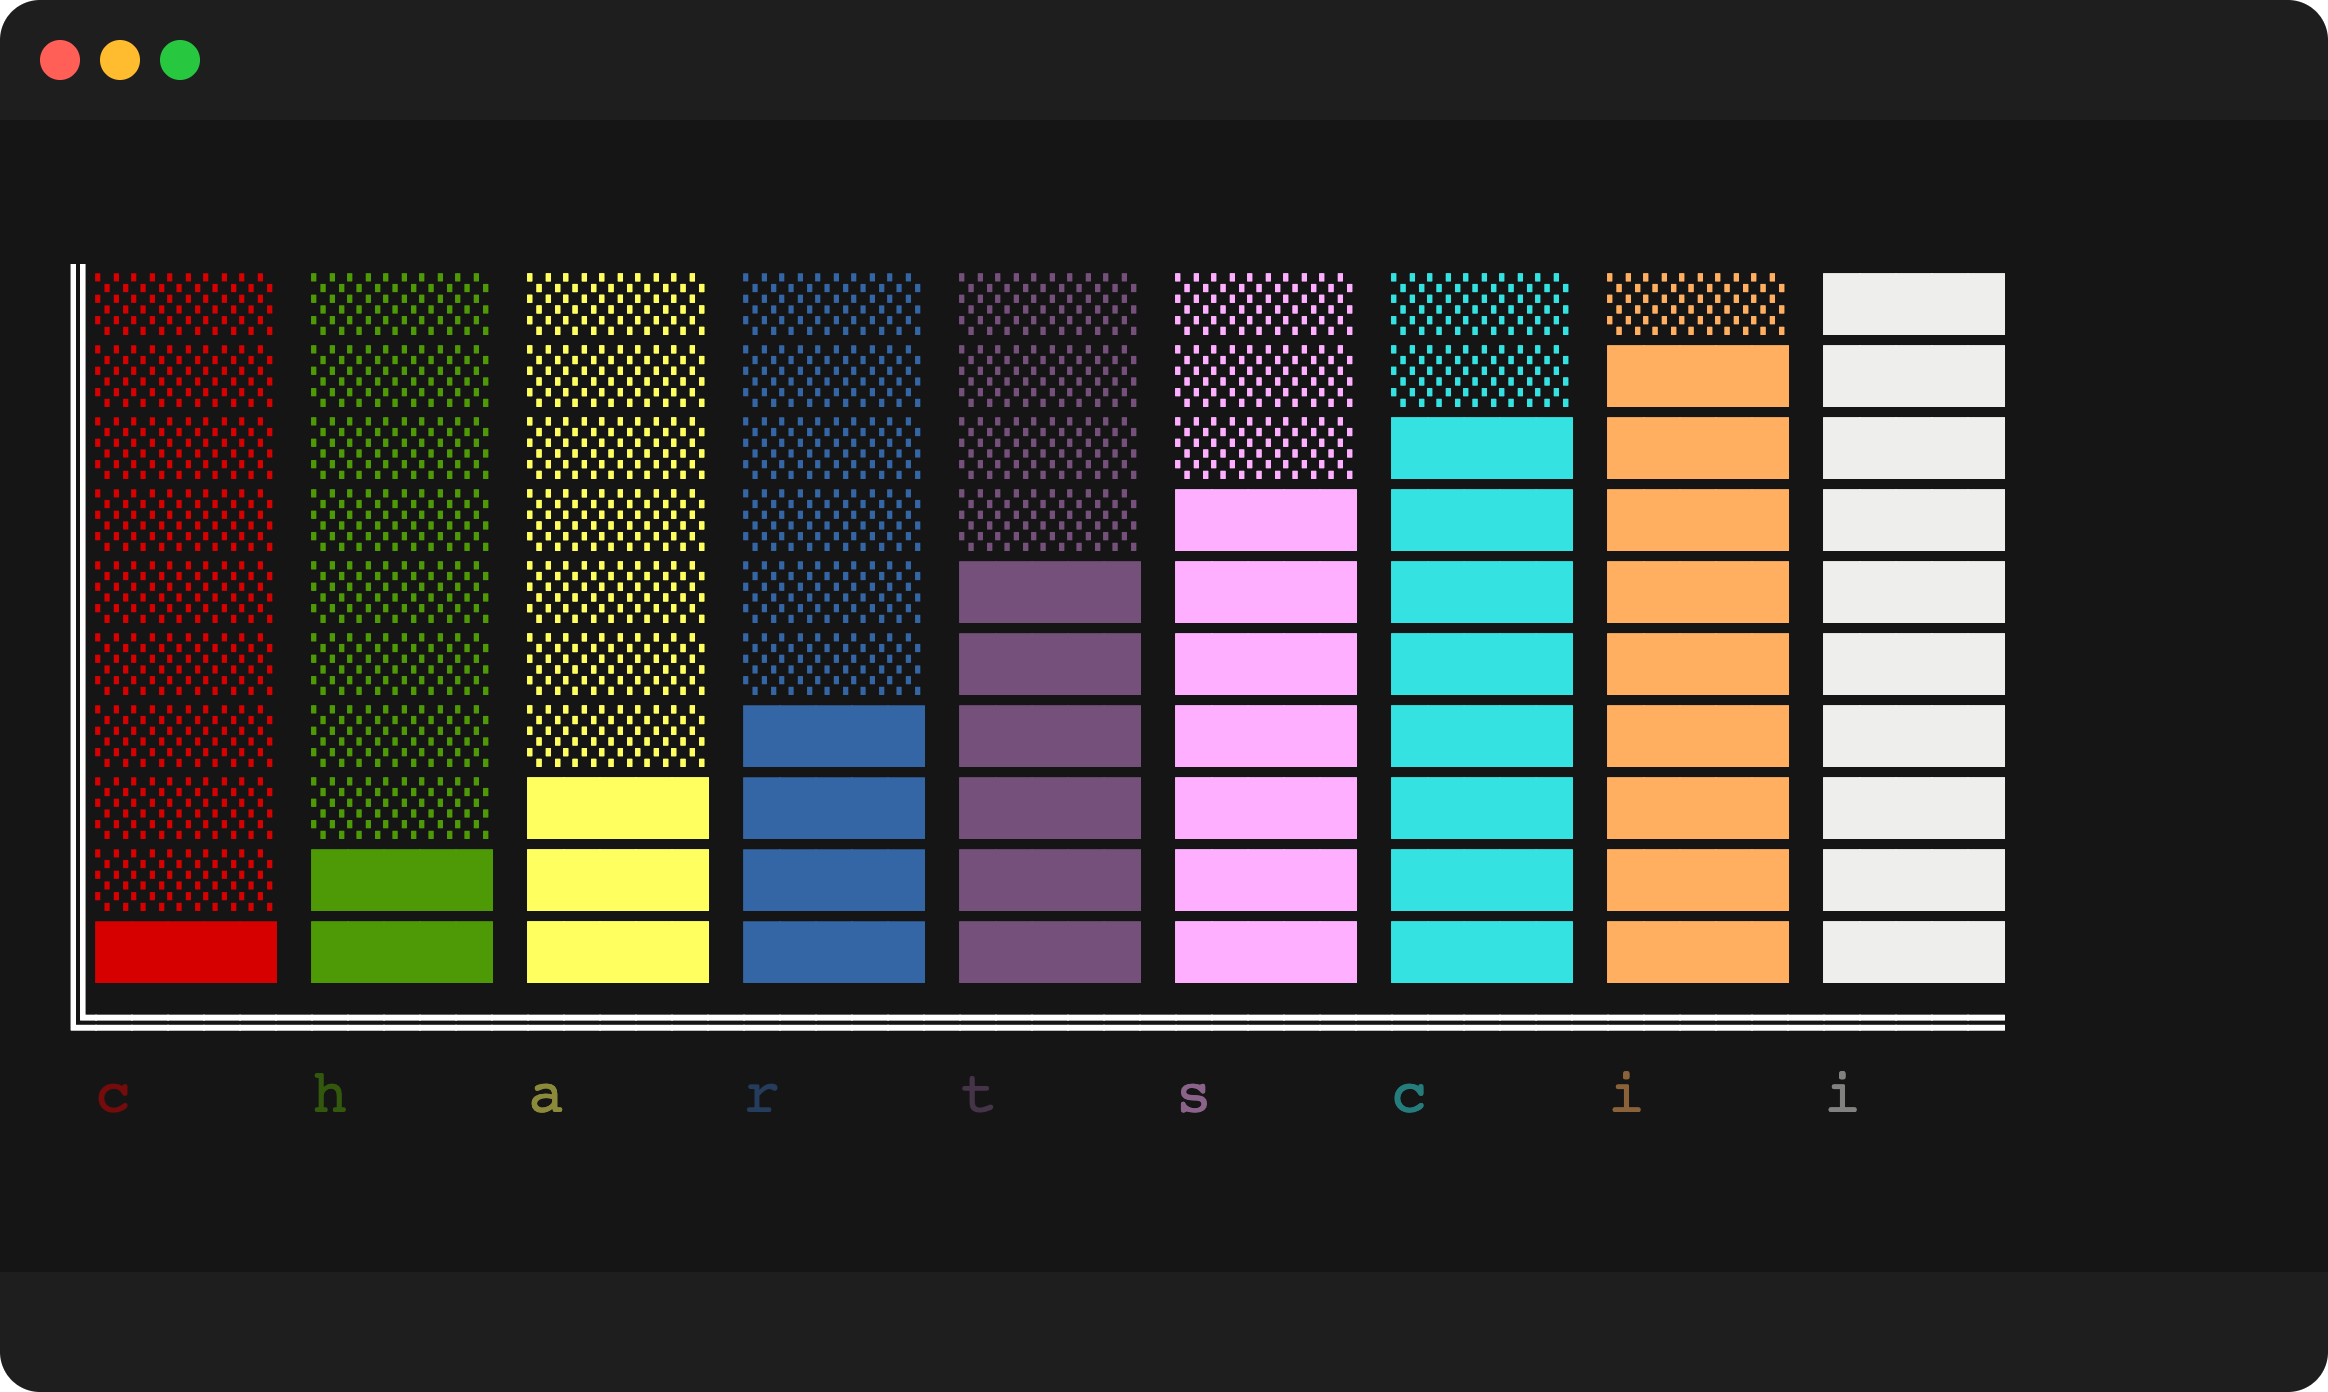
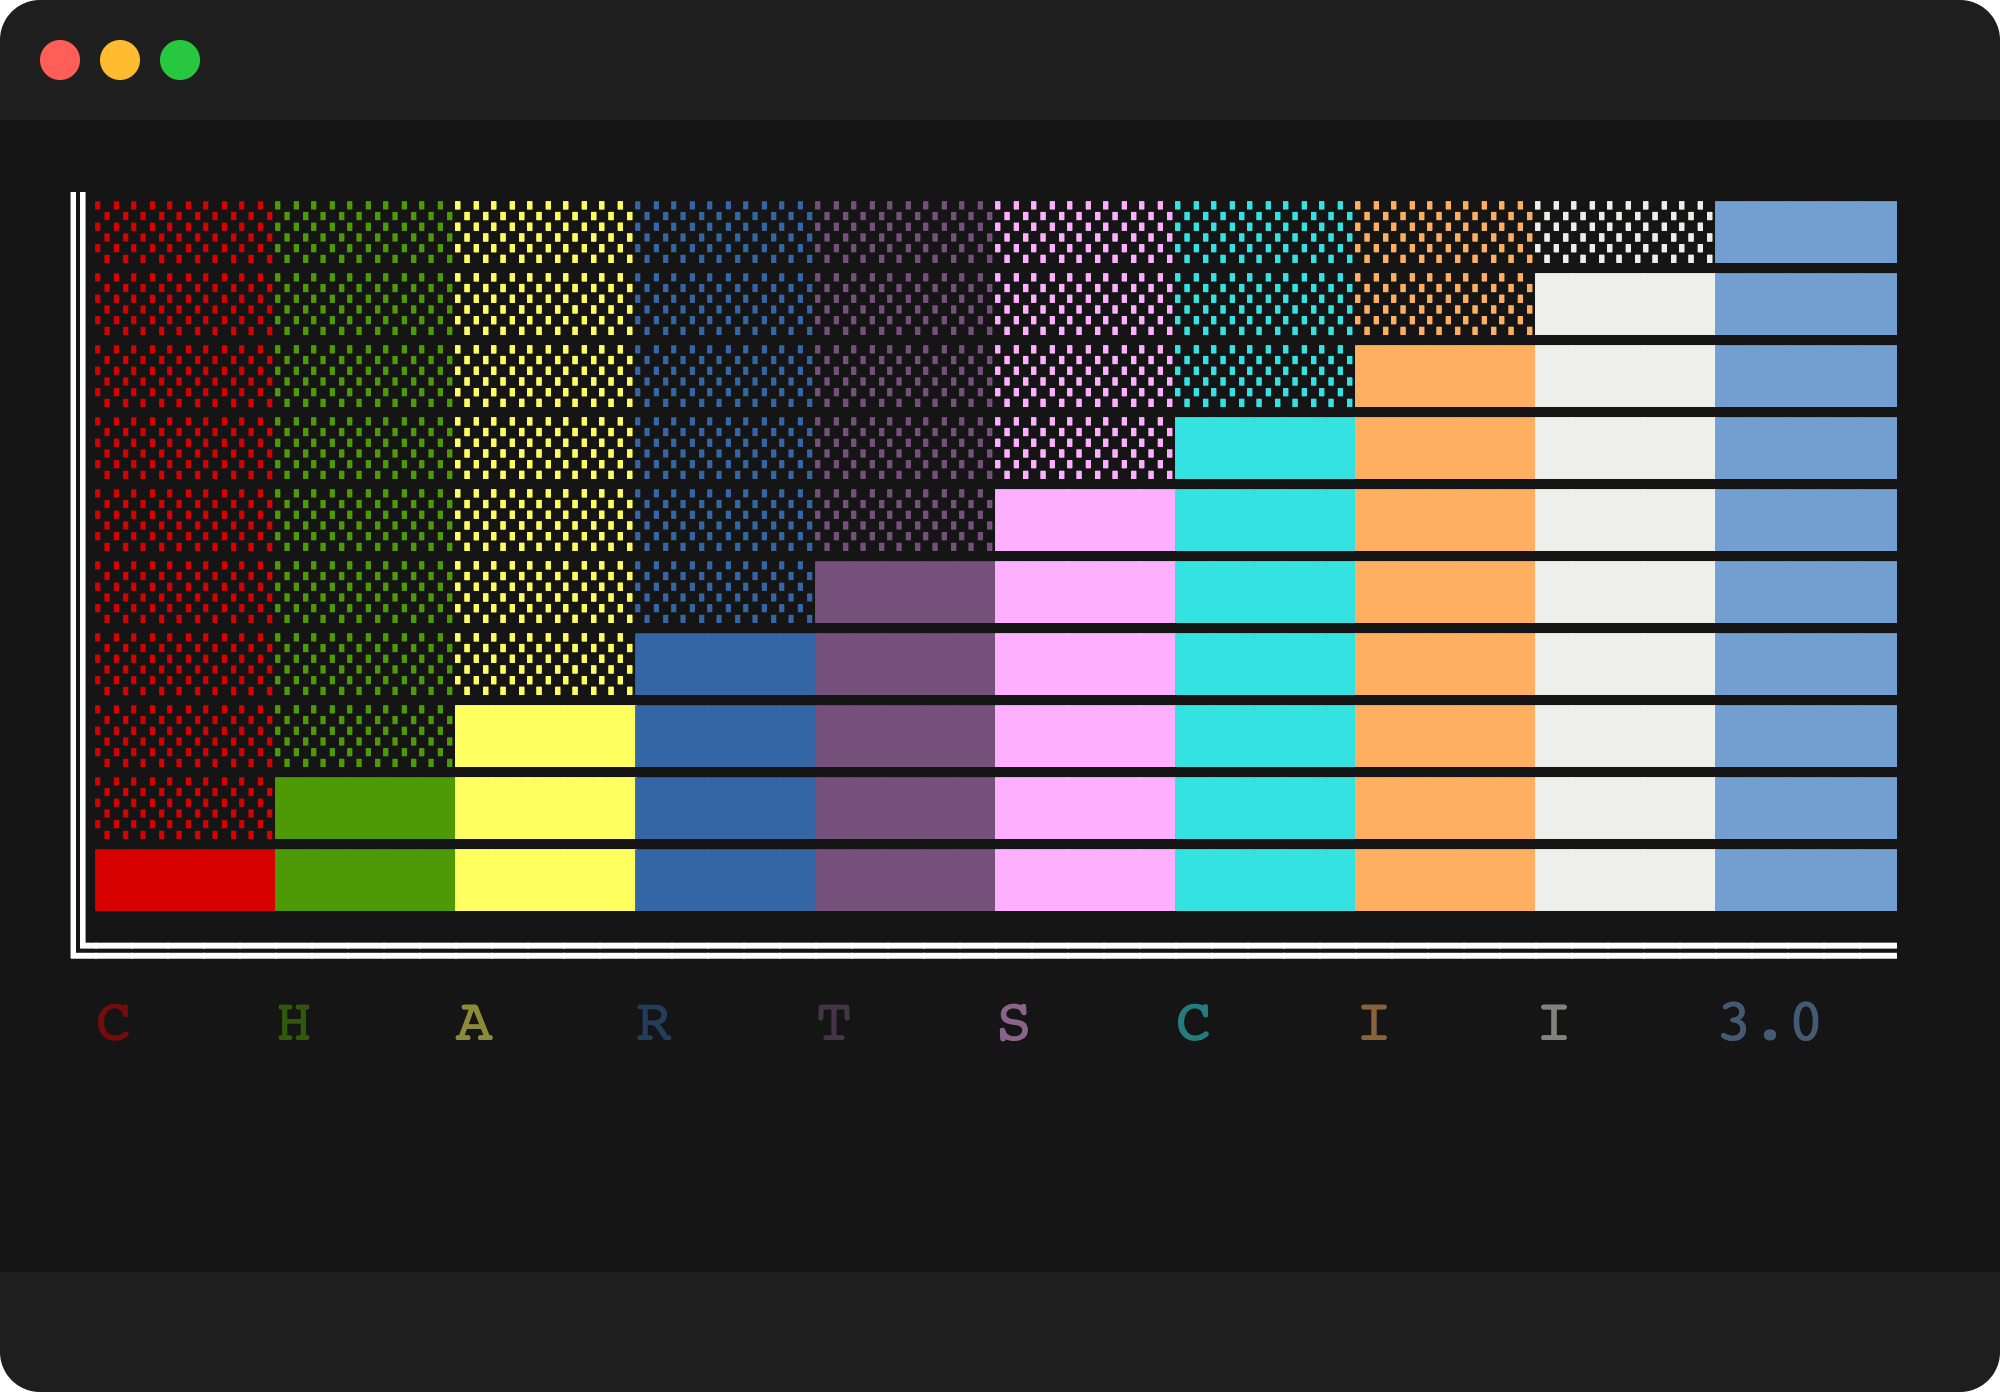
docs: add all shellfies

diff --git a/examples/simple.ts b/examples/simple.ts
@@ -11,7 +11,7 @@ for (let i = 1; i <= 10; i++) {
 const chart = new Chartscii(data, {
     title: 'Simple chart',
     fill: '░',
-    char: '█',
+    // char: '█',
     color: 'pink',
     colorLabels: true,
     labels: true,
@@ -21,3 +21,4 @@ const chart = new Chartscii(data, {
 
 //print chart
 console.log(chart.create());
+

diff --git a/README.md b/README.md
@@ -1,4 +1,4 @@
-![](./shellfies/chartscii_main_v.png)
+![](./shellfies/chartscii_main.png)
 
 [![](https://img.shields.io/static/v1?label=created%20with%20shellfie&message=📸&color=pink)](https://github.com/tool3/shellfie)
 
@@ -14,8 +14,8 @@ It includes many new features, improvements and rich formatting capabilities.
 ✅ Full width and height control.  
 ✅ New `padding` and `barSize` options!  
 ✅ New `orientation` option! vertical charts are here!  
-✅ New rich styl3 formatting support!   
-✅ New Emoji characters support! [*](#unicode-issues)  
+✅ New rich styl3 formatting support!  
+✅ New Emoji characters support! [\*](#unicode-issues)
 
 # install
 
@@ -34,17 +34,19 @@ import Chartscii from "chartscii";
 
 const data = [1, 2, 3, 4, 5, 6, 7, 8, 9, 10];
 const options = {
-  width: 80,
+  title: "chartscii",
+  width: 50,
   theme: "pastel",
-  color: "red",
-  padding: 2,
+  color: "pink",
   colorLabels: true,
+  barSize: 2,
   orientation: "vertical"
 };
-
 const chart = new Chartscii(data, options);
 console.log(char.create());
 ```
+
+![](./shellfies/chartscii_simple.png)
 
 # Input
 
@@ -68,6 +70,8 @@ const chart = new Chartscii(data);
 console.log(chart.create());
 ```
 
+![](./shellfies//chartscii_dead_simple.png)
+
 ## ChartPoint[]
 
 For maximum flexibility, provide an array of chart points. This will allow you to customize the following properties:
@@ -83,10 +87,12 @@ For maximum flexibility, provide an array of chart points. This will allow you t
 ```tsx
 import Chartscii from 'chartscii';
 
-const data = [{ label: 'label', value: 2, color: 'pink'  }, {...}];
-const chart = new Chartscii(data);
+const data = [{ label: 'label', value: 2, color: 'pink' }, { label: 'label', value: 2, color: 'purple' }, { label: 'label', value: 2, color: 'marine' },];
+const chart = new Chartscii(data, { colorLabels: true });
 console.log(chart.create());
 ```
+![](./shellfies/chartscii_chartpoint.png)
+
 
 # Options
 
@@ -155,7 +161,6 @@ You should check out `styl3` for a full list of customization options.
 ### example
 
 ```tsx
-const data = [];
 const colors = [
   "red",
   "green",
@@ -166,6 +171,8 @@ const colors = [
   "cyan",
   "orange"
 ];
+
+const data = [];
 for (let i = 0; i < colors.length; i++) {
   const color = colors[i];
   data.push({ value: i + 1, color, label: `@invert ${i}@`, theme: "pastel" });
@@ -176,8 +183,36 @@ const chart = new Chartscii(data, {
   colorLabels: true,
   orientation: "vertical"
 });
+
 console.log(chart.create());
 ```
+![](./shellfies/chartscii_styl3.png)
+
+
+# styl3 examples
+here are some examples of a vertical chart using `styl3`'s formatting on the chart labels.    
+
+beach theme with bold labels   
+![](./shellfies/vertical/chartscii_beach_bold.png)
+
+default theme with dim labels   
+![](./shellfies/vertical/chartscii_default_dim.png)
+
+lush theme with strikedout labels   
+![](./shellfies/vertical/chartscii_lush_strikeout.png)
+
+lush theme with underlined labels   
+![](./shellfies/vertical/chartscii_lush_underline.png)
+
+pastel theme with inverted labels   
+![](./shellfies/vertical/chartscii_pastel_invert.png)
+
+pastel theme with multiple formatting applied to labels   
+![](./shellfies/vertical/chartscii_pastel_multi.png)
+
+standard theme with italic labels   
+![](./shellfies/vertical/chartscii_standard_italic.png)
+
 
 # Unicode issues
 
